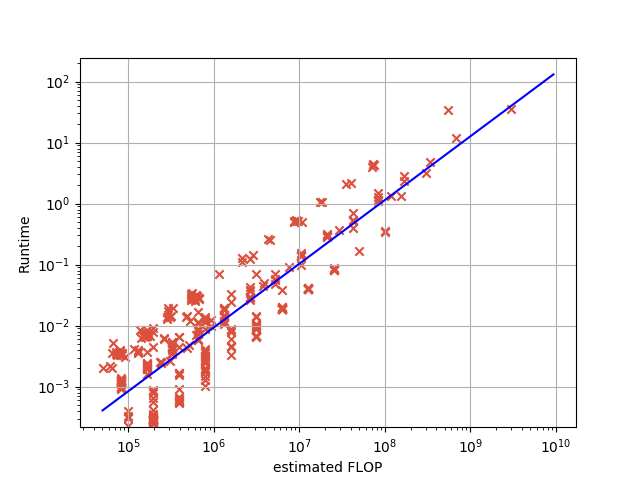
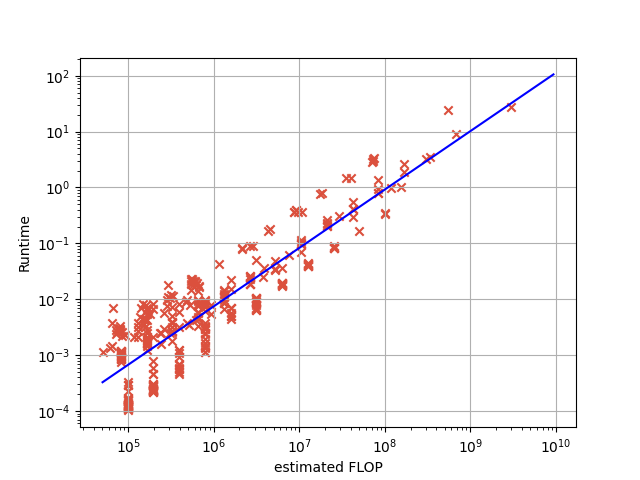
[jlse-results] for `[jlse-run] make memory threshold back smaller, change seed`

diff --git a/run/automake/results/result.md b/run/automake/results/result.md
@@ -1,15 +1,15 @@
 ## Automake run result
 ### Performance summary:
 ===Results===
-Total time: 140.53
-Simulator fitted flops: 0.20057 G
-Matmul flops: 512.7 G
-Simulator optimality: 0.0003912015764593512
+Total time: 107.19
+Simulator fitted flops: 0.25051 G
+Matmul flops: 119.16 G
+Simulator optimality: 0.0021023608741055147
 \n
 \n
-Backend used: mkl (contraction only)
+Backend used: mkl (full)
 \n
 ### Performance plot:
-![](https://asset.cml.dev/ff10063884eabb760241ae8236faeccc635c0205)
+![](https://asset.cml.dev/1ac8b1479ed6c4f0fbe049e1a930c5f29986ab26)
 \n
-Run date: Sat Oct 10 03:44:49 UTC 2020
+Run date: Sat Oct 10 20:15:46 UTC 2020
